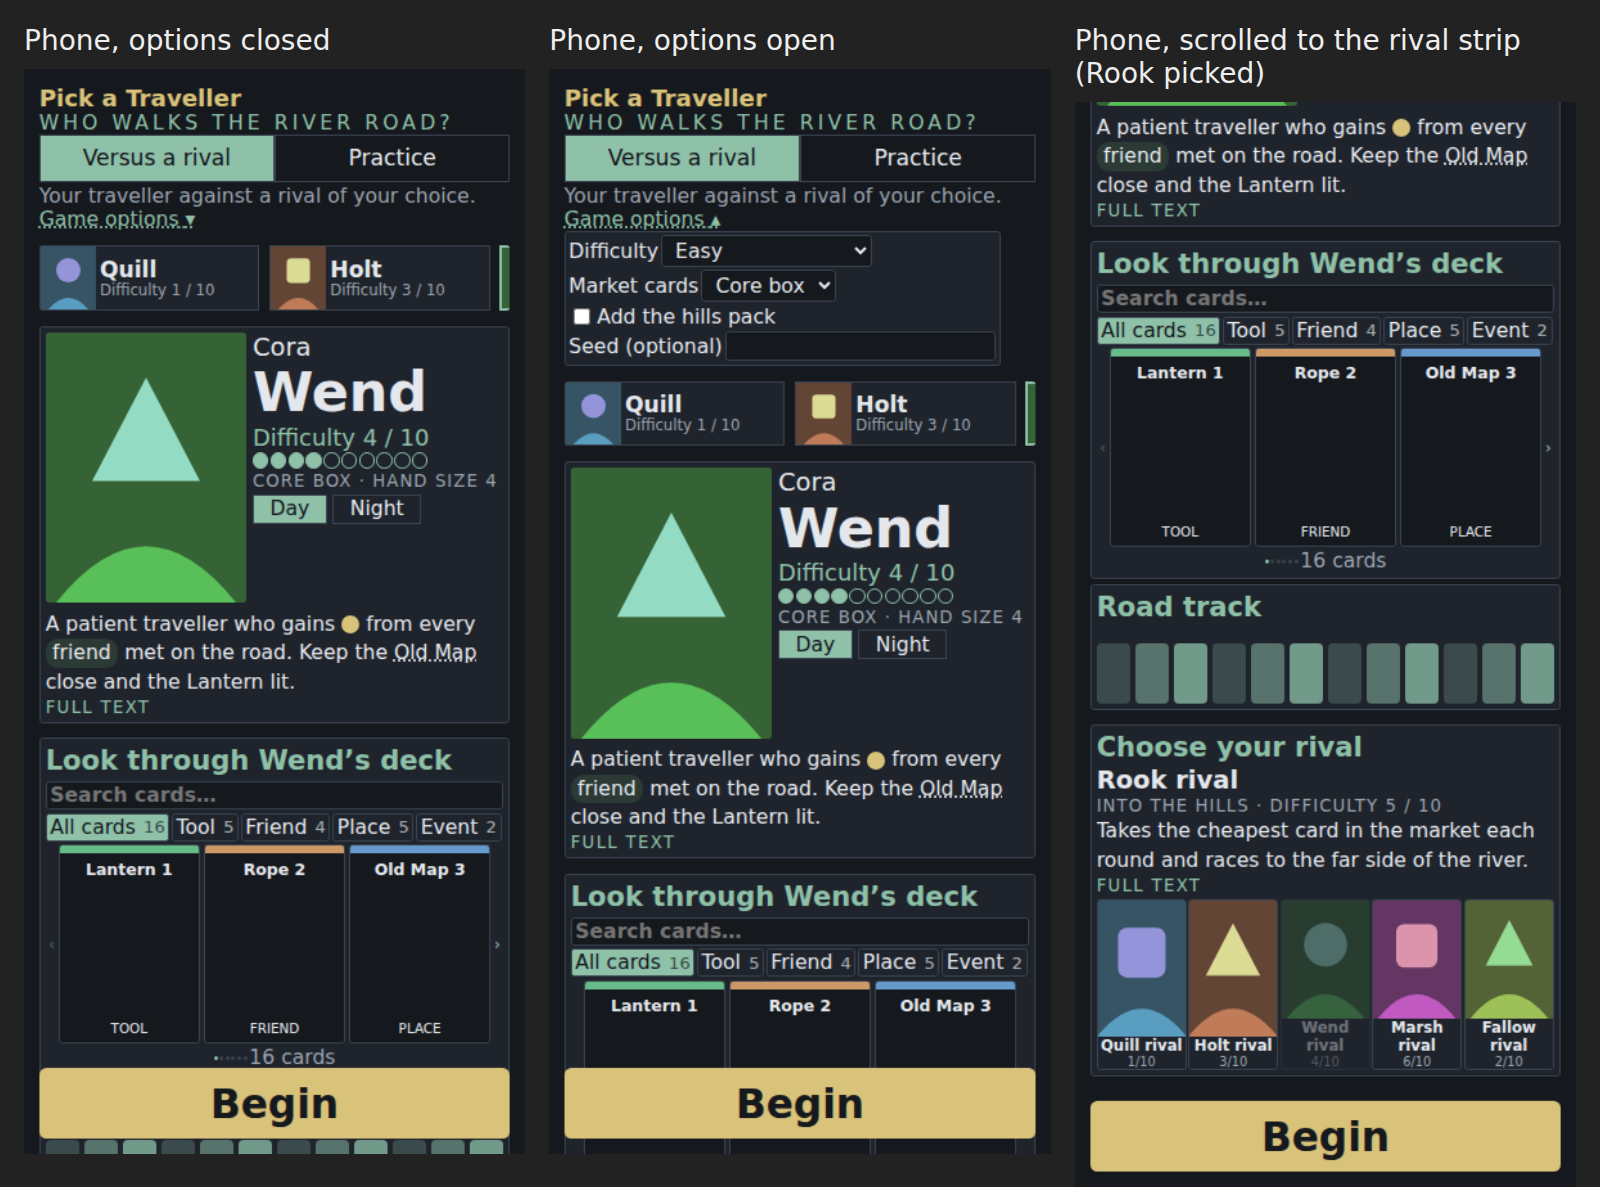
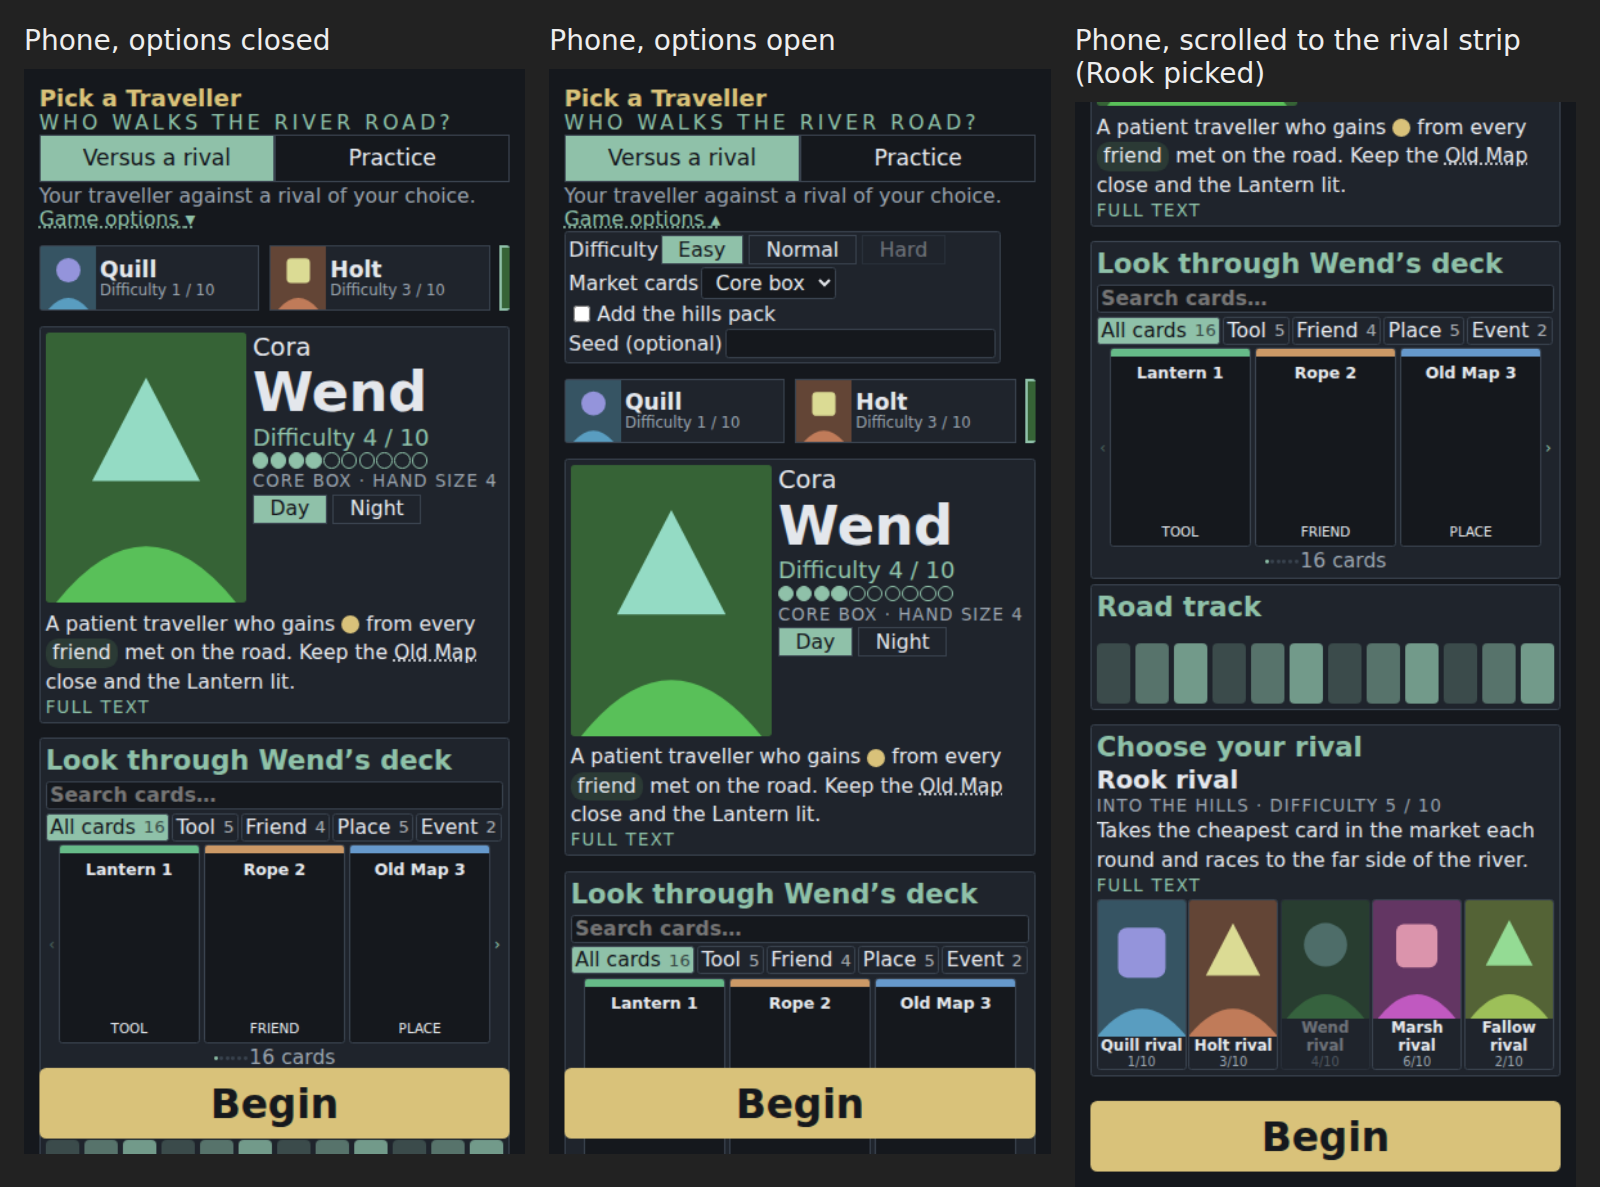
K468 4K opponent detail fully visible (taller bottom band); sheets re-shot

diff --git a/components/character-select/looks/layout.css b/components/character-select/looks/layout.css
@@ -16,7 +16,7 @@
   --cs-gap: calc(var(--cs-u) * 1.2);
   --cs-roster-w: calc(var(--cs-u) * 25);
   --cs-hero-w: calc(var(--cs-u) * 64);
-  --cs-bottom-h: calc(var(--cs-u) * 19);
+  --cs-bottom-h: calc(var(--cs-u) * 23);
   --cs-card-ratio: 0.7156;
   display: grid;
   box-sizing: border-box;
